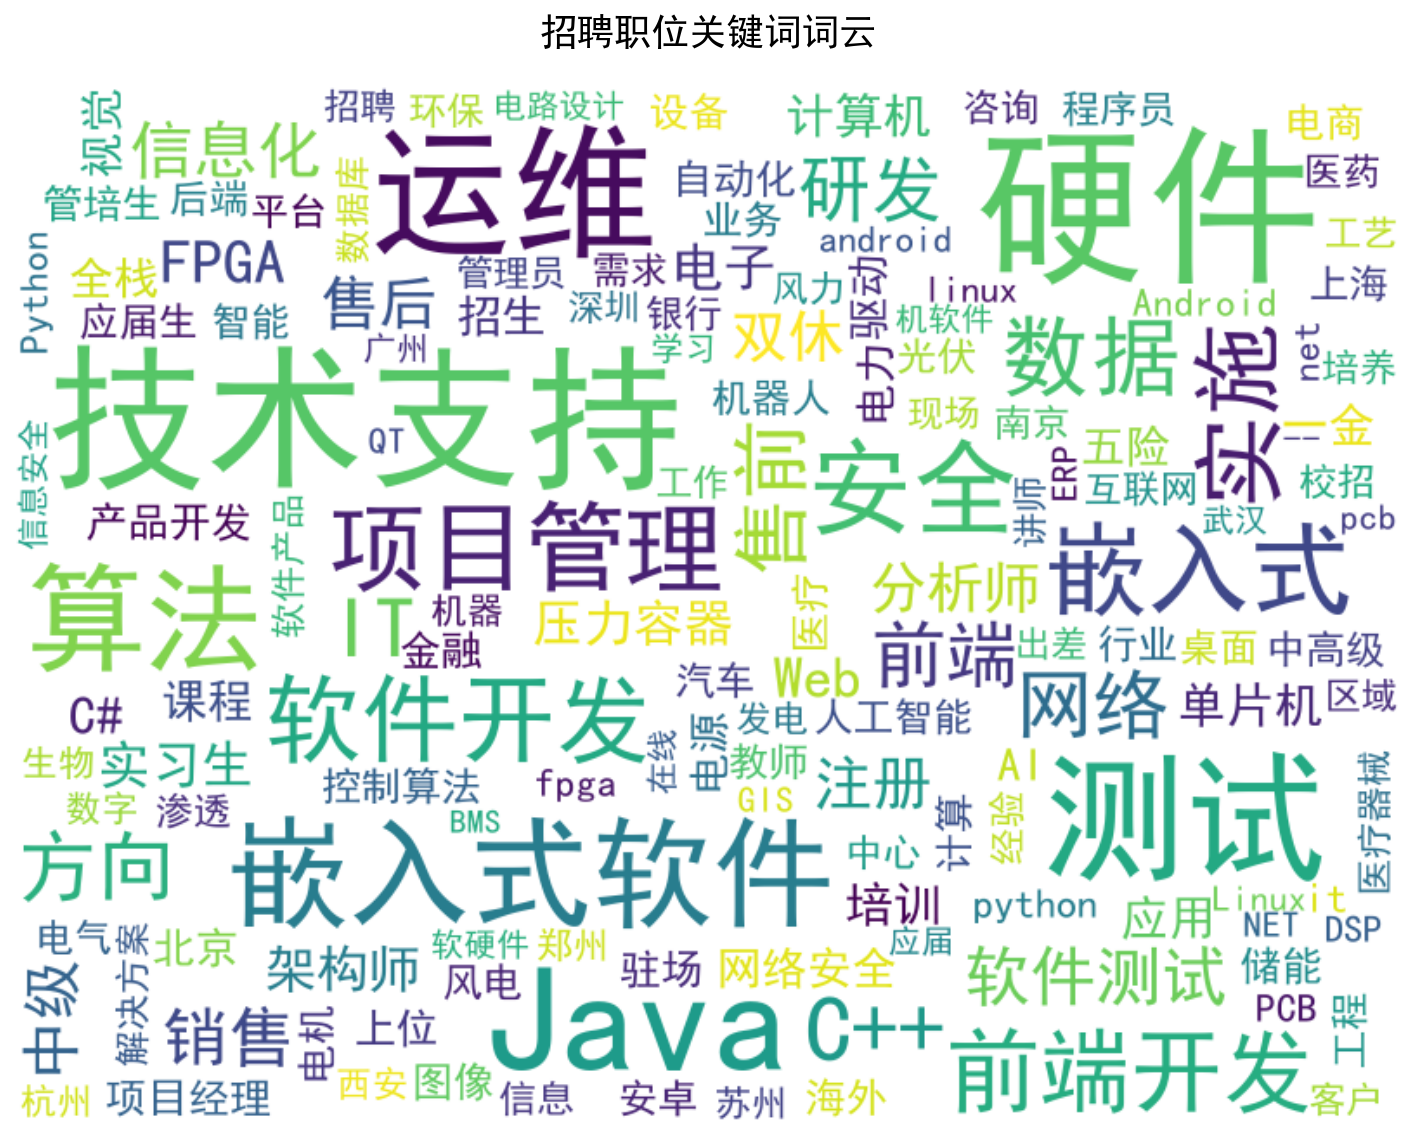
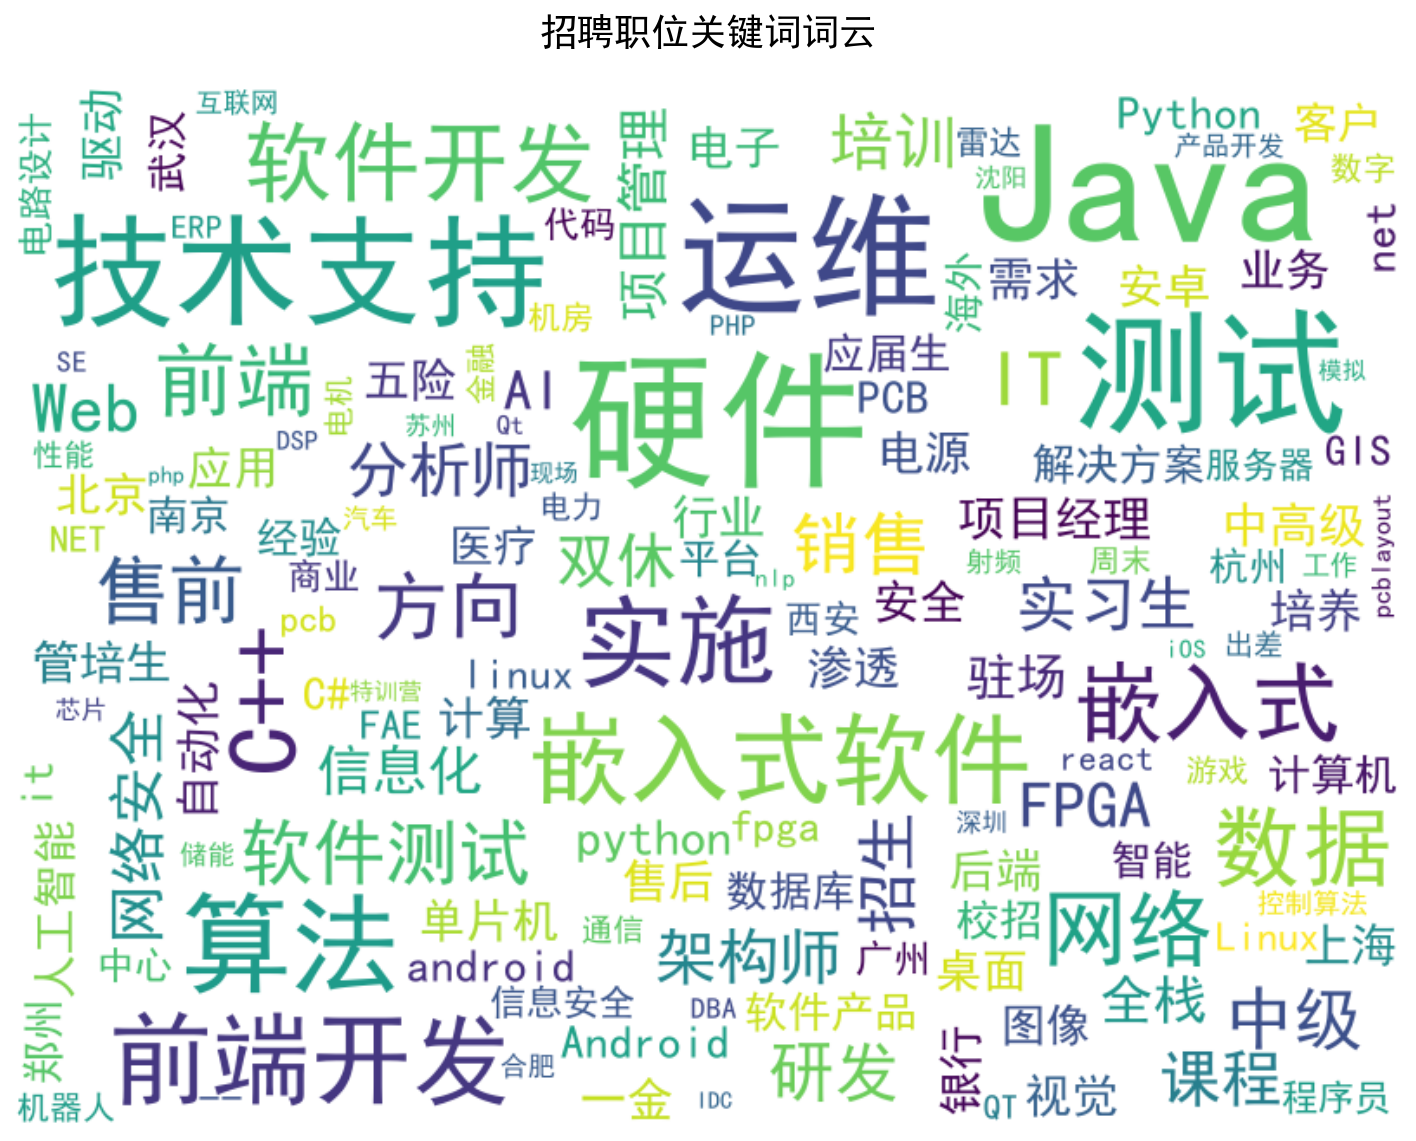
feat: 针对词云混入非IT词汇问题添加行业过滤逻辑

diff --git a/app/viz_service.py b/app/viz_service.py
@@ -307,9 +307,13 @@ def generate_exp_salary_boxplot():
 # ==================== 岗位技能词云 ====================
 
 def generate_skill_wordcloud():
-    """生成岗位技能需求词云"""
+    """生成岗位技能需求词云（仅IT相关行业）"""
     df = load_data()
-    text = ' '.join(df['职位描述'].dropna().tolist())
+    # 过滤IT相关行业
+    it_industries = ['IT互联网', '电子硬件', '云计算/大数据', '人工智能', '物联网', '通信/网络设备']
+    df_it = df[df['行业类型'].isin(it_industries)]
+    
+    text = ' '.join(df_it['职位描述'].dropna().tolist())
     words = jieba.lcut(text)
     
     stop_words = {
@@ -358,8 +362,12 @@ def generate_skill_wordcloud():
 
 
 def generate_benefit_wordcloud():
-    """生成福利待遇词云"""
+    """生成福利待遇词云（仅IT相关行业）"""
     df = load_data()
+    # 过滤IT相关行业
+    it_industries = ['IT互联网', '电子硬件', '云计算/大数据', '人工智能', '物联网', '通信/网络设备']
+    df_it = df[df['行业类型'].isin(it_industries)]
+    
     benefit_keywords = [
         '五险一金', '年终奖', '带薪年假', '绩效奖金', '全勤奖', '交通补助', '餐补', '房补',
         '通讯补贴', '加班补助', '高温补贴', '节日福利', '生日福利', '定期体检', '员工旅游',
@@ -373,7 +381,7 @@ def generate_benefit_wordcloud():
         '带薪休假', '年假', '调休', '弹性工作制', '远程办公', '居家办公',
     ]
     
-    all_descriptions = ' '.join(df['职位描述'].dropna().tolist())
+    all_descriptions = ' '.join(df_it['职位描述'].dropna().tolist())
     benefit_freq = {}
     for kw in benefit_keywords:
         count = all_descriptions.count(kw)
@@ -390,6 +398,56 @@ def generate_benefit_wordcloud():
     ax.set_title('福利待遇关键词词云', fontsize=18, fontweight='bold', pad=20)
     plt.tight_layout()
     return fig
+
+
+# ==================== 行业技术图表 ====================
+
+def generate_tech_trend():
+    """生成技术方向月度趋势图"""
+    df = load_data()
+    tech_trend_keywords = ['Java', 'Python', 'C++', 'JavaScript', 'Go', '前端', '后端', '嵌入式', '算法', '测试']
+    
+    df['招聘发布日期'] = pd.to_datetime(df['招聘发布日期'], errors='coerce')
+    df['招聘年月'] = df['招聘发布日期'].dt.to_period('M')
+    month_counts = df['招聘年月'].value_counts()
+    valid_months = month_counts[month_counts >= 10].index.tolist()
+    valid_months = sorted(valid_months)
+    
+    if valid_months:
+        months = valid_months
+        df_valid = df[df['招聘年月'].isin(months)]
+        all_descriptions_trend = df_valid.groupby('招聘年月')['职位描述'].apply(lambda x: ' '.join(x.dropna().tolist()))
+        
+        trend_data = {}
+        for tech in tech_trend_keywords:
+            tech_counts = []
+            for month in months:
+                if month in all_descriptions_trend.index:
+                    text = str(all_descriptions_trend[month])
+                    count = text.count(tech)
+                    tech_counts.append(count)
+                else:
+                    tech_counts.append(0)
+            trend_data[tech] = tech_counts
+        
+        month_labels = [str(m) for m in months]
+        x_pos = range(len(months))
+        
+        fig, ax = plt.subplots(figsize=(14, 7))
+        colors = plt.cm.tab10(np.linspace(0, 1, len(tech_trend_keywords)))
+        for i, (tech, counts) in enumerate(trend_data.items()):
+            ax.plot(x_pos, counts, marker='o', linewidth=2, label=tech, color=colors[i], markersize=6)
+        ax.set_xticks(x_pos)
+        ax.set_xticklabels(month_labels, rotation=45, ha='right', fontsize=9)
+        ax.set_xlabel('月份')
+        ax.set_ylabel('出现频次')
+        ax.set_title('各技术方向招聘市场月度趋势', fontweight='bold', fontsize=14)
+        ax.legend(fontsize=10, ncol=2)
+        ax.grid(alpha=0.3)
+        plt.tight_layout()
+        df.drop(columns=['招聘年月'], inplace=True, errors='ignore')
+        return fig
+    return None
 
 
 # ==================== 聚类分析图表 ====================
@@ -509,6 +567,8 @@ CHART_FUNCTIONS = {
     # 岗位技能
     'skill_wordcloud': generate_skill_wordcloud,
     'benefit_wordcloud': generate_benefit_wordcloud,
+    # 行业技术
+    'tech_trend': generate_tech_trend,
     # 聚类分析
     'cluster': generate_cluster_chart,
     # 技能分析

diff --git a/data_visualization.py b/data_visualization.py
@@ -318,8 +318,13 @@ print("\n" + "=" * 60)
 print("【3】岗位需求词云")
 print("=" * 60)
 
+# 过滤IT相关行业，排除机械、工业等非计算机领域
+it_industries = ['IT互联网', '电子硬件', '云计算/大数据', '人工智能', '物联网', '通信/网络设备']
+df_it = df[df['行业类型'].isin(it_industries)].copy()
+print(f"IT相关行业数据量: {len(df_it)} 条 (原始数据量: {len(df)} 条)")
+
 # 3.1 职位描述词云
-job_descriptions = df['职位描述'].dropna().tolist()
+job_descriptions = df_it['职位描述'].dropna().tolist()
 all_text = ' '.join(job_descriptions)
 
 # 使用jieba分词
@@ -805,9 +810,9 @@ tech_keywords = [
     'TensorFlow', 'PyTorch', 'OpenCV',
 ]
 
-# 统计技术关键词出现频次
+# 统计技术关键词出现频次（使用IT行业过滤后的数据）
 tech_freq = {}
-all_descriptions = ' '.join(df['职位描述'].dropna().tolist())
+all_descriptions = ' '.join(df_it['职位描述'].dropna().tolist())
 desc_words = jieba.lcut(all_descriptions)
 for tech in tech_keywords:
     count = desc_words.count(tech) + all_descriptions.count(tech)
@@ -856,8 +861,8 @@ ax_wc_tech.axis('off')
 ax_wc_tech.set_title('行业技术热点词云', fontsize=18, fontweight='bold', pad=20)
 save_wc(fig_wc_tech, '行业技术', '03_技术热点词云.png')
 
-# 5.3b 招聘职位关键词词云
-job_titles = df['招聘岗位'].dropna().tolist()
+# 5.3b 招聘职位关键词词云（使用IT行业过滤后的数据）
+job_titles = df_it['招聘岗位'].dropna().tolist()
 all_job_text = ' '.join(job_titles)
 job_words = jieba.lcut(all_job_text)
 
@@ -937,7 +942,7 @@ benefit_keywords = [
     '弹性工作制', '远程办公', '居家办公',
 ]
 
-all_descriptions2 = ' '.join(df['职位描述'].dropna().tolist())
+all_descriptions2 = ' '.join(df_it['职位描述'].dropna().tolist())
 benefit_freq = {}
 for kw in benefit_keywords:
     count = all_descriptions2.count(kw)
